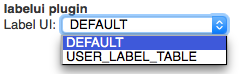
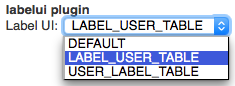
Add table control that shows labels as rows and users as columns
Add a new option for a control that renders the labels/approvals as a
table with one row per label and reviewers as columns.

diff --git a/src/main/java/com/googlesource/gerrit/plugins/labelui/client/LabelPanel.java b/src/main/java/com/googlesource/gerrit/plugins/labelui/client/LabelPanel.java
@@ -67,6 +67,9 @@ public class LabelPanel extends VerticalPanel {
             ChangeInfo change =
                 panel.getObject(GerritUiExtensionPoint.Key.CHANGE_INFO).cast();
             switch (result.ui()) {
+              case LABEL_USER_TABLE:
+                displayLabelUserTable(change);
+                break;
               case USER_LABEL_TABLE:
                 displayUserLabelTable(change);
                 break;
@@ -81,6 +84,39 @@ public class LabelPanel extends VerticalPanel {
             // never invoked
           }
         });
+  }
+
+  private void displayLabelUserTable(ChangeInfo change) {
+    Set<String> labelNames = getLabelNames(change);
+    Map<String, AccountInfo> users = getUserMap(labelNames, change);
+    Map<Integer, VotableInfo> votable = votable(change);
+    Grid g = createGrid(labelNames.size() + 1, users.size() + 1);
+
+    int i = 1;
+    for (AccountInfo account : users.values()) {
+      g.setWidget(0, i, createUserWidget(account));
+      i++;
+    }
+
+    i = 1;
+    for (String labelName : labelNames) {
+      g.setWidget(i, 0, createLabelLabel(change.label(labelName)));
+
+      int j = 1;
+      for (AccountInfo account : users.values()) {
+        LabelInfo label = change.label(labelName);
+        ApprovalInfo ai = label.forUser(account._accountId());
+        g.setWidget(i, j, createLabelValueWidget(label, ai));
+
+        if (!votable.get(account._accountId()).isVotable(labelName)) {
+          formatNonVotable(g, i, j);
+        }
+        j++;
+      }
+      i++;
+    }
+
+    add(g);
   }
 
   private void displayUserLabelTable(ChangeInfo change) {

diff --git a/src/main/java/com/googlesource/gerrit/plugins/labelui/client/PreferencesInfo.java b/src/main/java/com/googlesource/gerrit/plugins/labelui/client/PreferencesInfo.java
@@ -18,7 +18,7 @@ import com.google.gwt.core.client.JavaScriptObject;
 
 public class PreferencesInfo extends JavaScriptObject {
   public static enum LabelUi {
-    DEFAULT, USER_LABEL_TABLE
+    DEFAULT, LABEL_USER_TABLE, USER_LABEL_TABLE
   }
 
   public static PreferencesInfo create() {

diff --git a/src/main/java/com/googlesource/gerrit/plugins/labelui/LabelUi.java b/src/main/java/com/googlesource/gerrit/plugins/labelui/LabelUi.java
@@ -15,5 +15,5 @@
 package com.googlesource.gerrit.plugins.labelui;
 
 public enum LabelUi {
-  DEFAULT, USER_LABEL_TABLE
+  DEFAULT, LABEL_USER_TABLE, USER_LABEL_TABLE
 }

diff --git a/src/main/resources/Documentation/about.md b/src/main/resources/Documentation/about.md
@@ -12,6 +12,13 @@ The Gerrit default control for labels/approvals:
 
 ![DefaultApprovalsScreenshot](images/default-approvals.png)
 
+### `LABEL_USER_TABLE`
+
+Renders the labels/approvals as a table with one row per label and
+users as columns:
+
+![ApprovalTableScreenshot](images/label-user-table.png)
+
 ### `USER_LABEL_TABLE`
 
 Renders the labels/approvals as a table with one row per user and

diff --git a/src/main/resources/Documentation/rest-api-accounts.md b/src/main/resources/Documentation/rest-api-accounts.md
@@ -68,7 +68,7 @@ plugin.
 
 * _ui_: The control that should be displayed on the change screen to
   render the labels/approvals. Possible values are `DEFAULT` and
-  `USER_LABEL_TABLE`.
+  `LABEL_USER_TABLE`, `USER_LABEL_TABLE`.
 
 SEE ALSO
 --------
